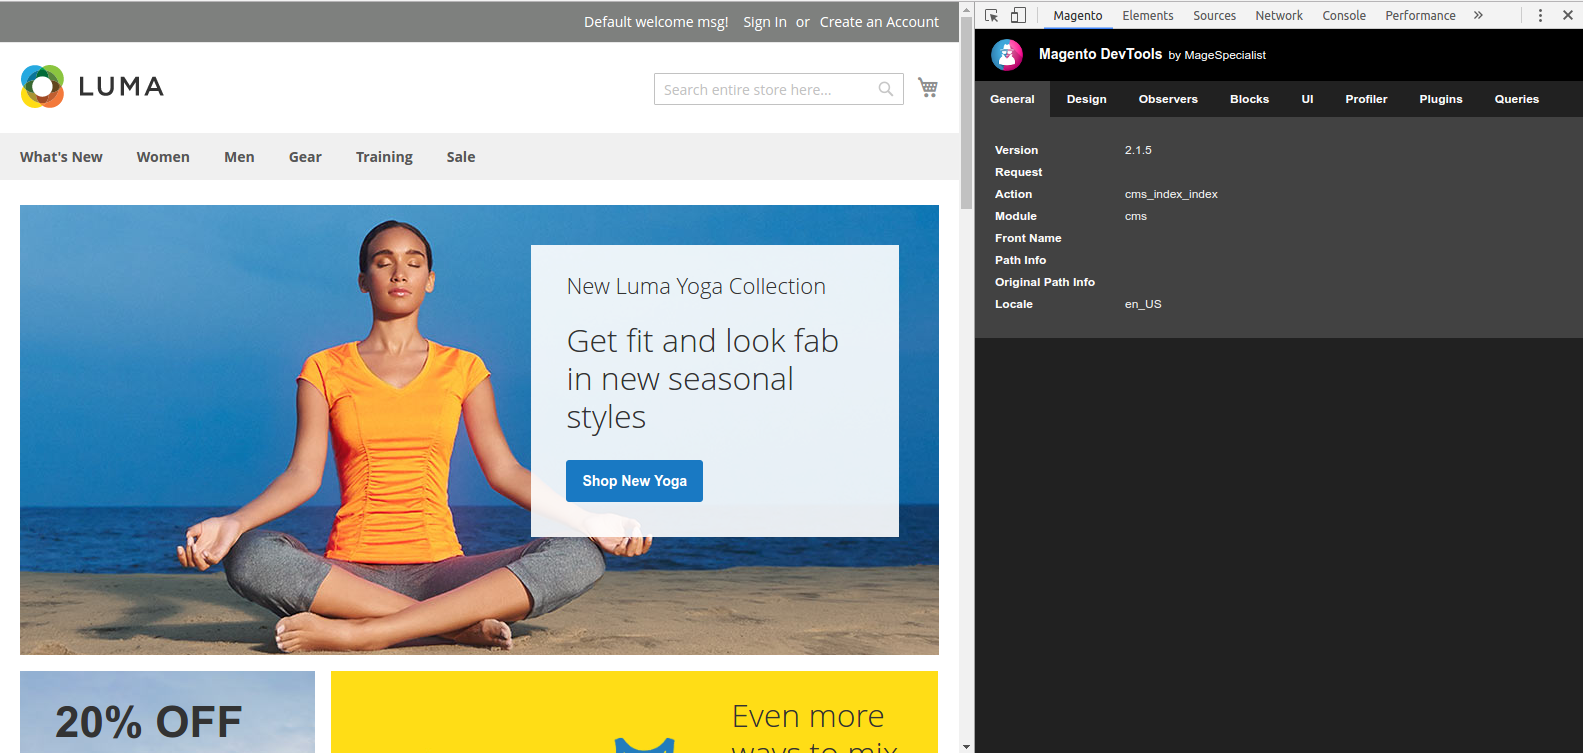
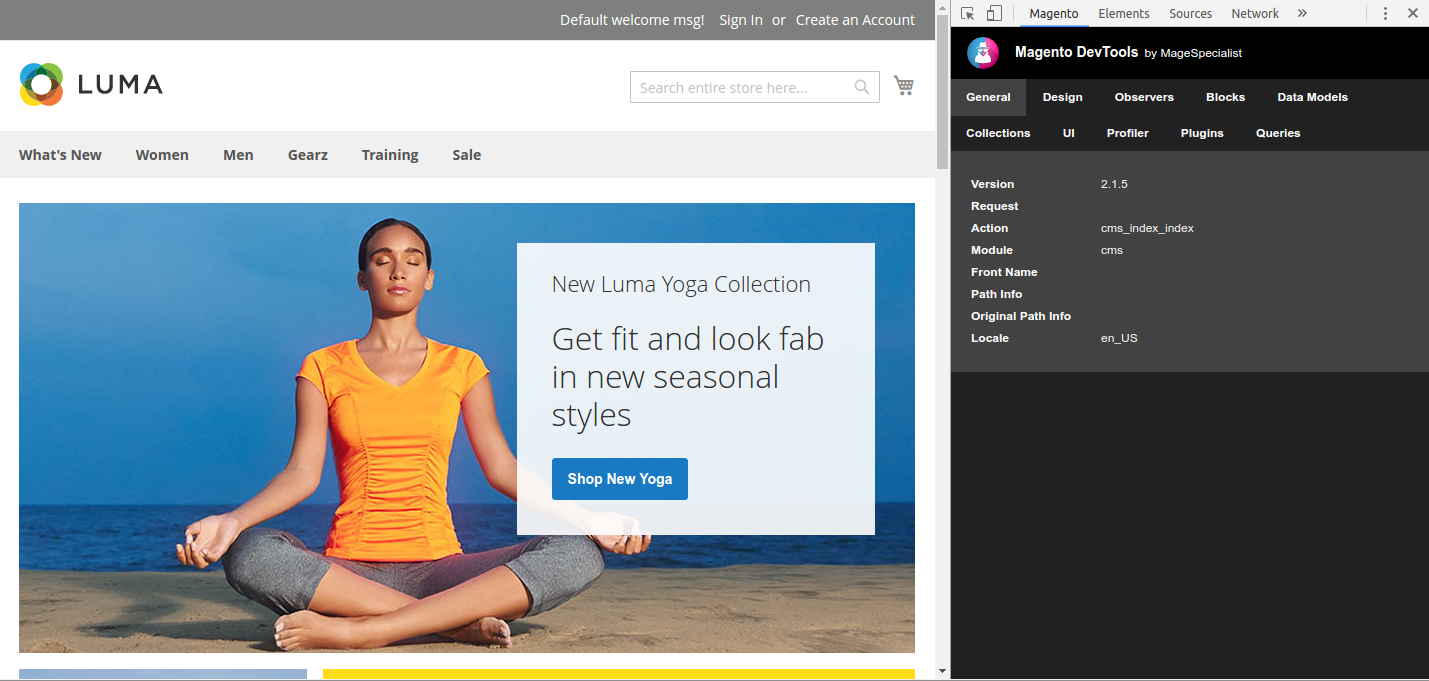
Data models & Collections

diff --git a/panel/panel.html b/panel/panel.html
@@ -90,6 +90,8 @@
             <li><a data-toggle="tab" href="#panel-design">Design</a></li>
             <li><a data-toggle="tab" href="#panel-events">Observers</a></li>
             <li><a data-toggle="tab" href="#panel-blocks">Blocks</a></li>
+            <li><a data-toggle="tab" href="#panel-data-models">Data Models</a></li>
+            <li><a data-toggle="tab" href="#panel-collections">Collections</a></li>
             <li><a data-toggle="tab" href="#panel-ui-components">UI</a></li>
             <li><a data-toggle="tab" href="#panel-profiler">Profiler</a></li>
             <li><a data-toggle="tab" href="#panel-plugins">Plugins</a></li>
@@ -132,6 +134,35 @@
                             <th data-explode="true" data-index="name">Block Name</th>
                             <th data-width="120px" data-index="proper_time" data-type="int" data-sorted="true" data-direction="DESC">ms (proper)</th>
                             <th data-width="120px" data-index="time" data-type="int">ms (total)</th>
+                        </tr>
+                        </thead>
+
+                        <tbody></tbody>
+                    </table>
+                </div>
+            </div>
+            <div role="tabpanel" class="fade tab-pane" id="panel-data-models">
+                <div class="mage-v2">
+                    <table class="table" data-sorting="true" data-filtering="true">
+                        <thead>
+                        <tr>
+                            <th data-explode="true" data-index="model">Data Model</th>
+                            <th data-width="80px" data-index="count" data-type="int" data-sorted="true" data-direction="DESC">Count</th>
+                        </tr>
+                        </thead>
+
+                        <tbody></tbody>
+                    </table>
+                </div>
+            </div>
+            <div role="tabpanel" class="fade tab-pane" id="panel-collections">
+                <div class="mage-v2">
+                    <table class="table" data-sorting="true" data-filtering="true">
+                        <thead>
+                        <tr>
+                            <th data-explode="true" data-index="collection">Collection</th>
+                            <th data-width="80px" data-index="items" data-type="int">Items</th>
+                            <th data-width="80px" data-index="count" data-type="int" data-sorted="true" data-direction="DESC">Count</th>
                         </tr>
                         </thead>
 

diff --git a/js/panel.js b/js/panel.js
@@ -26,7 +26,7 @@ port.onMessage.addListener(function (msg, sender, sendResponse) {
   if (msg.tabId === chrome.devtools.inspectedWindow.tabId) {
     if (msg.type === 'update') {
       if (msg.payload) {
-        if (!msg.payload['_protocol'] || (msg.payload['_protocol'] < 2)) {
+        if (!msg.payload['_protocol'] || (msg.payload['_protocol'] < 3)) {
           setRunlevel('update');
         } else {
           if (!$.isEmptyObject(msg.payload['blocks'])) {
@@ -50,6 +50,8 @@ port.onMessage.addListener(function (msg, sender, sendResponse) {
             renderPropertyTab('design', msg.payload['design']);
             renderTableTab('events', msg.payload['events']);
             renderTableTab('blocks', msg.payload['blocks']);
+            renderTableTab('data-models', msg.payload['data-models']);
+            renderTableTab('collections', msg.payload['collections']);
             renderTableTab('ui-components', msg.payload['uiComponents']);
             renderTableTab('profiler', msg.payload['profiler']);
             renderTableTab('logs', msg.payload['profiler']);

diff --git a/README.md b/README.md
@@ -90,6 +90,8 @@ From the main panel you can see information from:
 * Request parameters
 * Layout and Layout updates
 * Observers
+* Data Models inspector
+* Collections inspector
 * Blocks, Containers, uiComponents
 * Profiler
 
@@ -104,6 +106,12 @@ From the main panel you can see information from:
 
 #### Profiler information:
 <img src="https://raw.githubusercontent.com/magespecialist/mage-chrome-toolbar/master/screenshots/5.png" width="480" />
+
+#### Data Models information:
+<img src="https://raw.githubusercontent.com/magespecialist/mage-chrome-toolbar/master/screenshots/6.png" width="480" />
+
+#### Collections information:
+<img src="https://raw.githubusercontent.com/magespecialist/mage-chrome-toolbar/master/screenshots/7.png" width="480" />
 
 ### Item Information
 Magento Chrome Toolbar is integrated with Chrome Inspector.
